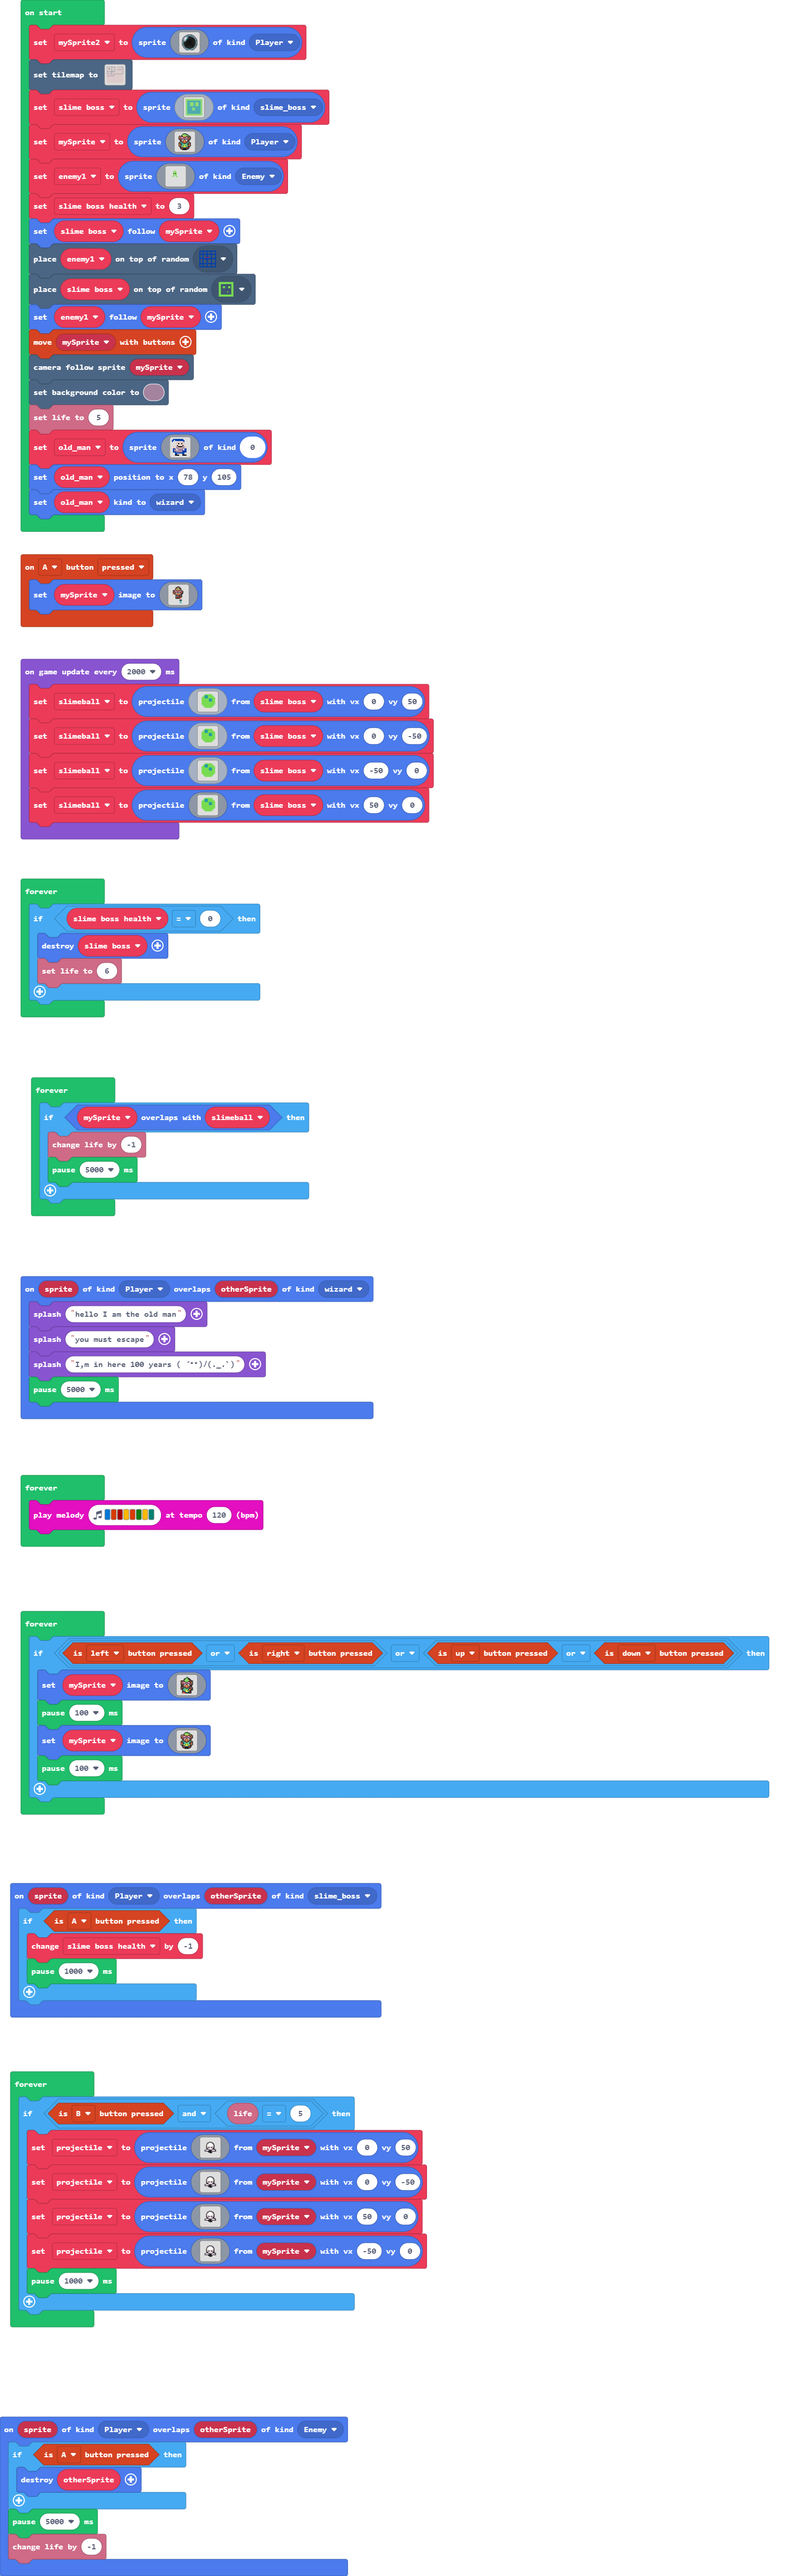
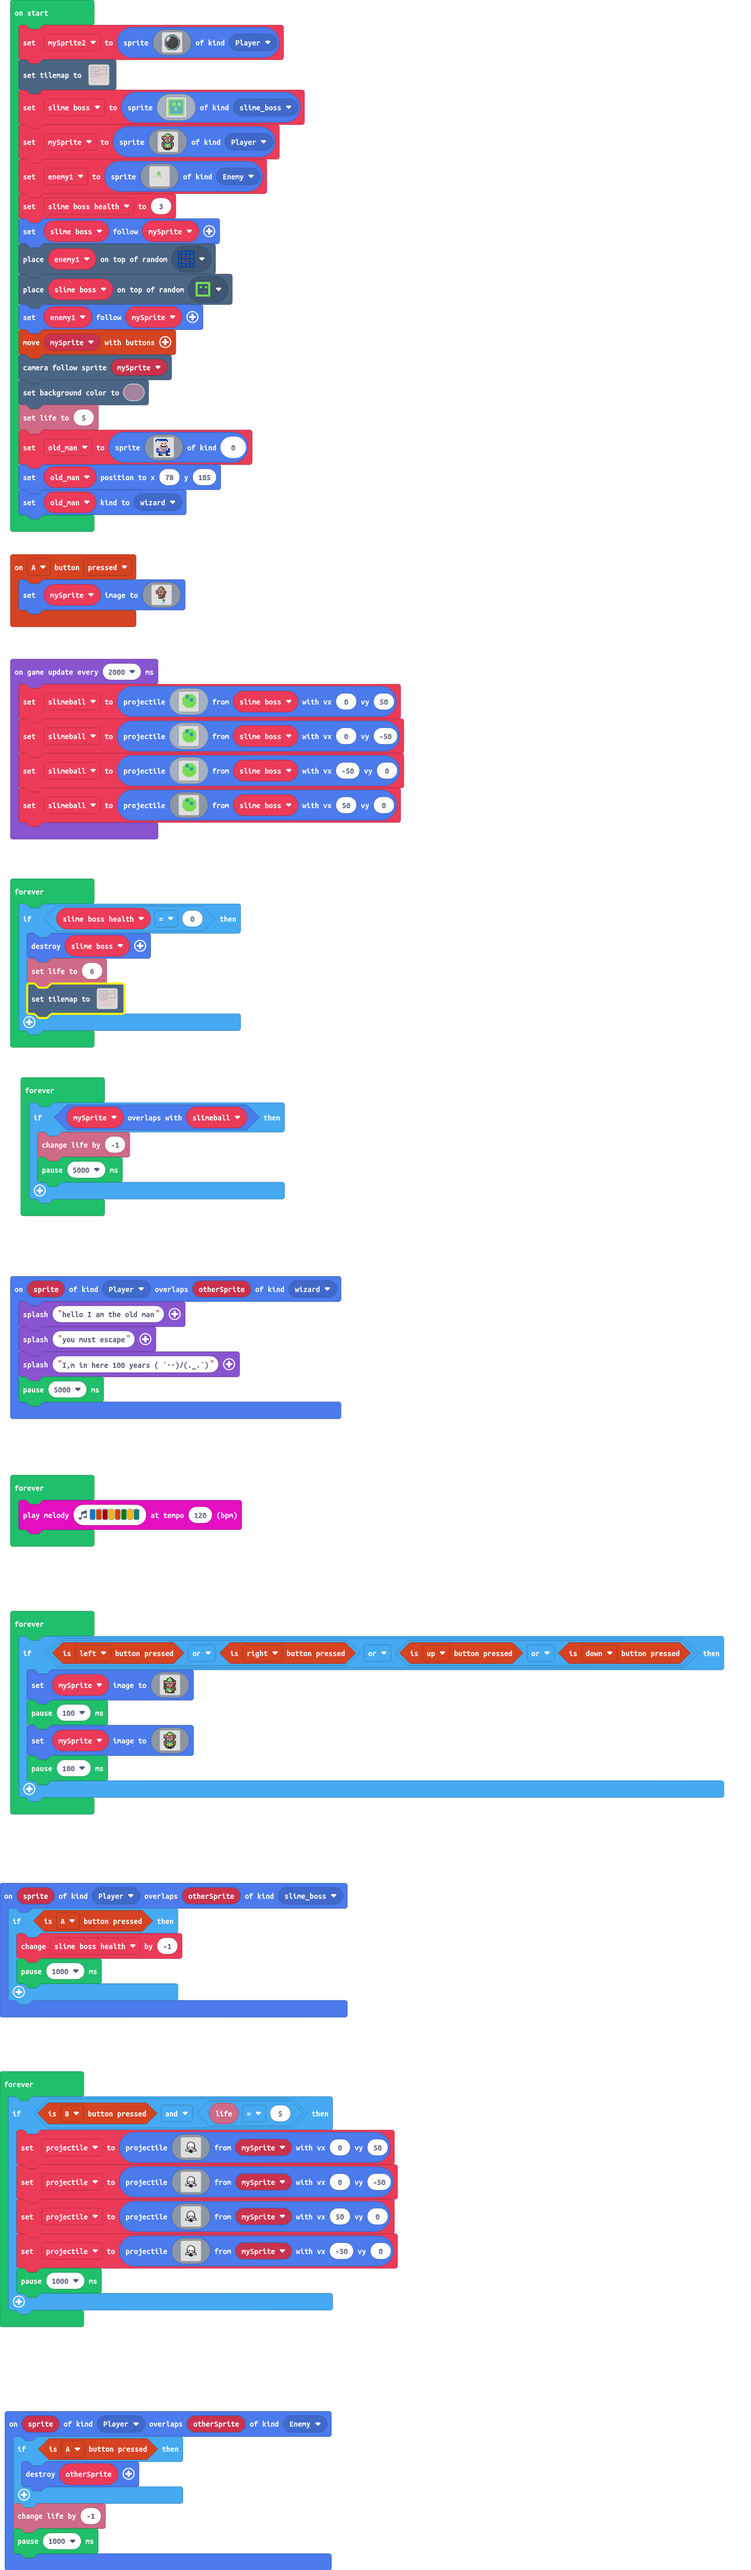
#3 I fixed it by changing it to a non wall block and now you have to defeat the slime boss to go through the door

Changed region(s): [[0.0, 0.0, 0.9805, 0.9031], [0.0, 0.9343, 0.2451, 1.0], [0.429, 0.9965, 0.4596, 1.0]]

diff --git a/tilemap.g.ts b/tilemap.g.ts
@@ -252,8 +252,27 @@ namespace myTiles {
 . . . . . . . . . . . . . . . . 
 . . . . . . . . . . . . . . . . 
 `, [myTiles.transparency16], TileScale.Sixteen);
+            case "level9":
+            case "level9":return tiles.createTilemap(hex`1000100000000000000000000000000000000000000000000000000000000000000000000000000000000000000000000000000000000000000000000000000000000000000000000000000000000000000000000000000000000000000000000000000000000000000000000000000000000000000000000000000000000000000000000000000000000000000000000000000000000000000000000000000000000000000000000000000000000000000000000000000000000000000000000000000000000000000000000000000000000000000000000000000000000000000000000000000000000000000000000000000000000000000000000000000000000000`, img`
+. . . . . . . . . . . . . . . . 
+. . . . . . . . . . . . . . . . 
+. . . . . . . . . . . . . . . . 
+. . . . . . . . . . . . . . . . 
+. . . . . . . . . . . . . . . . 
+. . . . . . . . . . . . . . . . 
+. . . . . . . . . . . . . . . . 
+. . . . . . . . . . . . . . . . 
+. . . . . . . . . . . . . . . . 
+. . . . . . . . . . . . . . . . 
+. . . . . . . . . . . . . . . . 
+. . . . . . . . . . . . . . . . 
+. . . . . . . . . . . . . . . . 
+. . . . . . . . . . . . . . . . 
+. . . . . . . . . . . . . . . . 
+. . . . . . . . . . . . . . . . 
+`, [myTiles.transparency16], TileScale.Sixteen);
             case "level2":
[2 lines of base64/hex data omitted]
 22222222222222222222222222222222222222222222222222
 2..............2........2........2..........2....2
 2..............2........2.....2..2..........2....2
@@ -276,7 +295,7 @@ namespace myTiles {
 2..............2.................................2
 2..............2.................................2
 2..............2.................................2
-222222222222222222..222222222222222222222222222222
+22222222222222222...222222222222222222222222222222
 .....................2............................
 .....................2............................
 .....................2............................
@@ -304,7 +323,7 @@ namespace myTiles {
 ..................................................
 ..................................................
 ..................................................
-`, [myTiles.transparency16,sprites.dungeon.floorLight0,sprites.dungeon.floorLight1,sprites.dungeon.floorLightMoss,sprites.dungeon.floorDark1,sprites.dungeon.floorDark0,sprites.dungeon.greenOuterWest1,sprites.dungeon.greenOuterSouthEast,sprites.dungeon.greenOuterSouth0,sprites.dungeon.greenOuterSouthWest,sprites.dungeon.greenOuterNorthEast,sprites.dungeon.greenOuterNorthWest,sprites.dungeon.greenOuterNorth0,sprites.dungeon.greenOuterEast0,sprites.dungeon.chestOpen,sprites.dungeon.collectibleBlueCrystal,sprites.dungeon.collectibleRedCrystal,myTiles.tile1,myTiles.tile2,sprites.dungeon.greenOuterEast1,myTiles.tile5,sprites.dungeon.purpleOuterSouth0,sprites.dungeon.purpleOuterEast0,sprites.dungeon.purpleOuterSouthWest,myTiles.tile6], TileScale.Sixteen);
+`, [myTiles.transparency16,sprites.dungeon.floorLight0,sprites.dungeon.floorLight1,sprites.dungeon.floorLightMoss,sprites.dungeon.floorDark1,sprites.dungeon.floorDark0,sprites.dungeon.greenOuterWest1,sprites.dungeon.greenOuterSouthEast,sprites.dungeon.greenOuterSouth0,sprites.dungeon.greenOuterSouthWest,sprites.dungeon.greenOuterNorthEast,sprites.dungeon.greenOuterNorthWest,sprites.dungeon.greenOuterNorth0,sprites.dungeon.greenOuterEast0,sprites.dungeon.chestOpen,sprites.dungeon.collectibleBlueCrystal,sprites.dungeon.collectibleRedCrystal,myTiles.tile1,myTiles.tile2,sprites.dungeon.greenOuterEast1,myTiles.tile5,sprites.dungeon.purpleOuterSouth0,sprites.dungeon.purpleOuterEast0,sprites.dungeon.purpleOuterSouthWest,myTiles.tile6,sprites.dungeon.purpleOuterNorthEast,sprites.dungeon.purpleOuterNorth1], TileScale.Sixteen);
         }
         return null;
     })

diff --git a/main.ts b/main.ts
@@ -48,8 +48,8 @@ sprites.onOverlap(SpriteKind.Player, SpriteKind.Enemy, function (sprite, otherSp
     if (controller.A.isPressed()) {
         otherSprite.destroy()
     }
-    pause(5000)
     info.changeLifeBy(-1)
+    pause(1000)
 })
 let projectile: Sprite = null
 let slimeball: Sprite = null
@@ -253,6 +253,7 @@ forever(function () {
     if (slime_boss_health == 0) {
         slime_boss.destroy()
         info.setLife(6)
+        tiles.setTilemap(tilemap`level2`)
     }
 })
 forever(function () {
